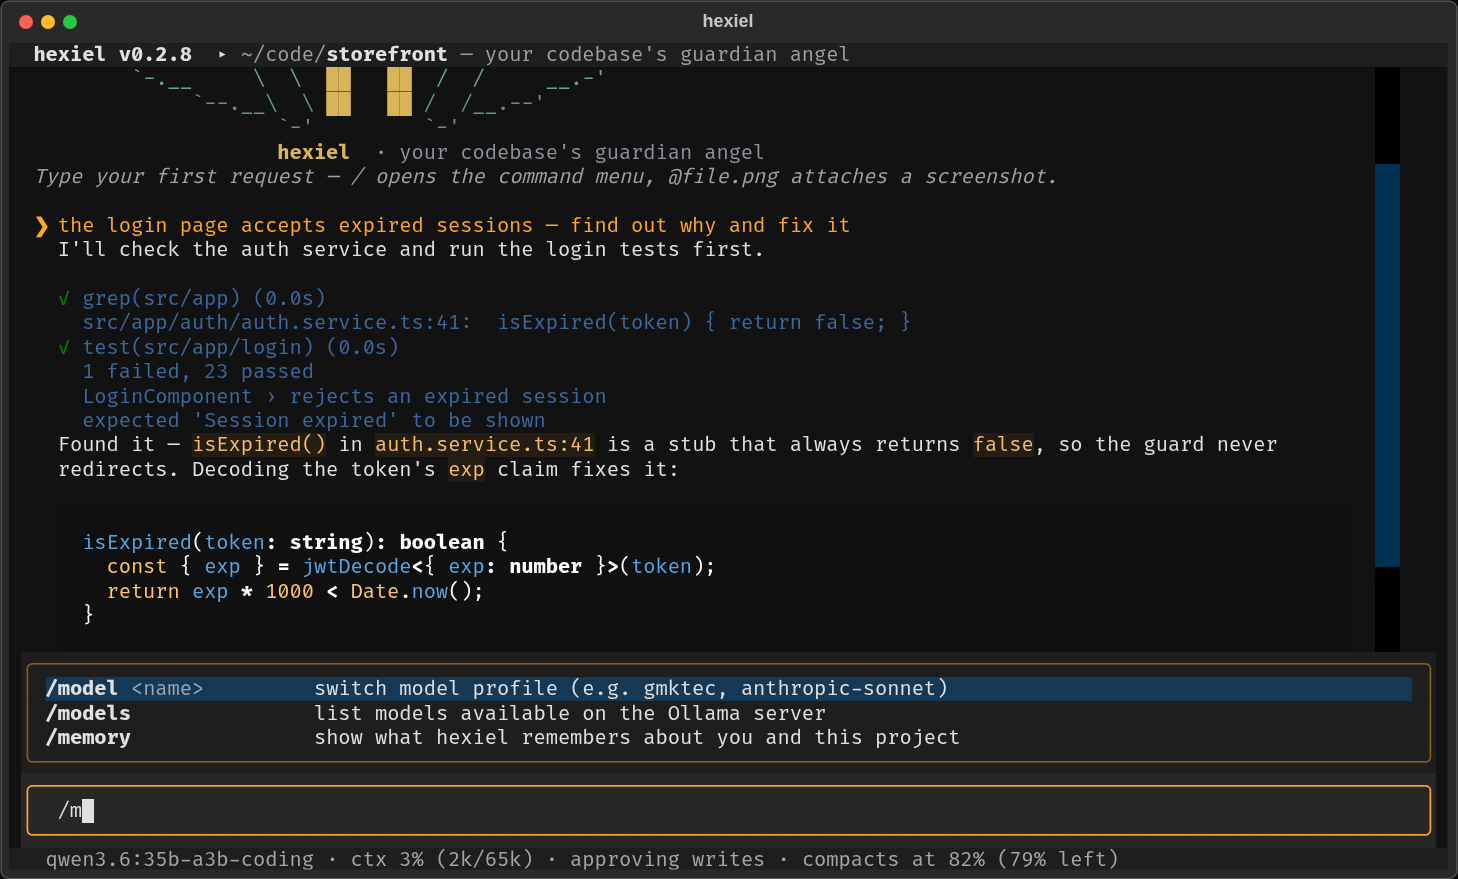
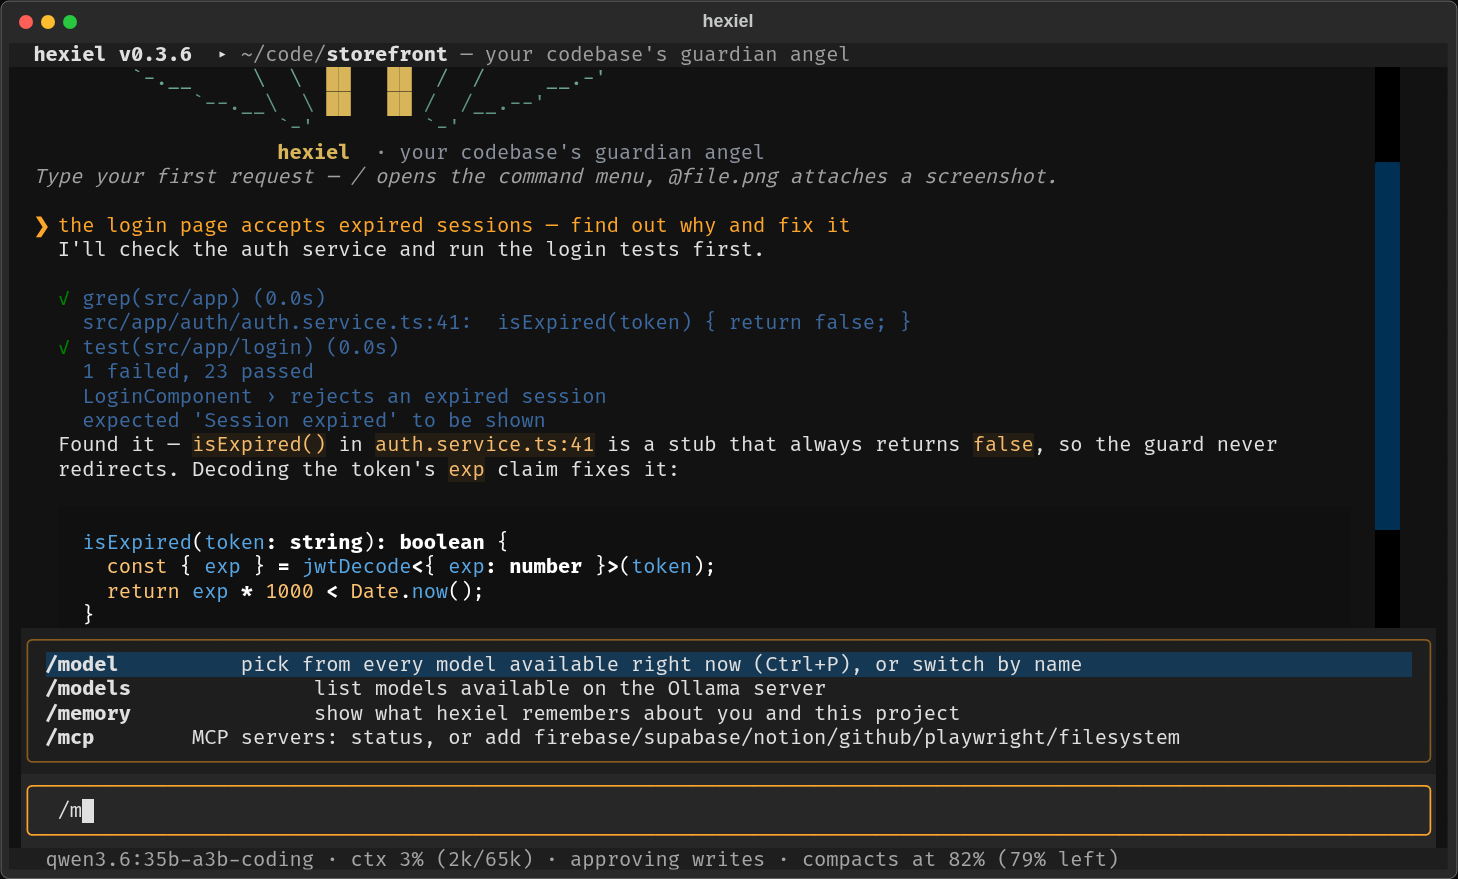
Screenshots: live model picker (TUI + browser); refreshed gallery

Changed region(s): [[0.0309, 0.7065, 0.9877, 0.8601], [0.9259, 0.5836, 0.9877, 0.6451]]

diff --git a/scripts/screenshots.py b/scripts/screenshots.py
@@ -56,6 +56,27 @@ os.chdir(PROJECT)
 sys.path.insert(0, str(REPO))
 
 from hexiel import skills as skills_mod          # noqa: E402
+from hexiel import model_catalog as catalog     # noqa: E402
+
+
+def _demo_discover(cfg, on_result):
+    """A fixed, generic provider list for the picker screenshot (no real accounts)."""
+    E, F = catalog.Endpoint, catalog.Found
+    local = E("Ollama @ homeserver", "openai", "http://homeserver:11434/v1")
+    on_result(local, [F(local, "qwen3.6:35b-a3b-coding", "local", "23 GB local"),
+                      F(local, "gpt-oss:20b", "", "14 GB local")], "")
+    cloud = E("Ollama @ localhost", "openai", "http://localhost:11434/v1")
+    on_result(cloud, [F(cloud, "kimi-k3:cloud", "", "Ollama Cloud"), F(cloud, "glm-5.3:cloud", "", "Ollama Cloud")], "")
+    ant = E("Anthropic", "anthropic", "https://api.anthropic.com")
+    on_result(ant, [F(ant, "claude-opus-5-5", "", "Claude Opus 5.5"), F(ant, "claude-sonnet-5-5", "sonnet", "Claude Sonnet 5.5"),
+                    F(ant, "claude-haiku-4-5", "", "Claude Haiku 4.5")], "")
+    orr = E("OpenRouter", "openai", "https://openrouter.ai/api/v1")
+    on_result(orr, [F(orr, "openai/gpt-6-astra", "", "1050k ctx"), F(orr, "google/gemini-3.8-flash", "", "1048k ctx"),
+                    F(orr, "deepseek/deepseek-v4-pro", "", "1000k ctx")], "")
+
+
+catalog.discover = _demo_discover
+catalog.endpoints = lambda cfg: [1, 2, 3, 4]
 from hexiel.main import build_session            # noqa: E402
 
 CONVERSATION = [
@@ -132,7 +153,12 @@ async def tui_shots(tmp: Path) -> None:
     async def nothing(app, pilot):
         await pilot.pause(0.2)
 
+    async def picker(app, pilot):
+        await pilot.press("ctrl+p")
+        await pilot.pause(0.6)
+
     await capture("tui-welcome", nothing, size=(100, 22), conversation=False)
+    await capture("tui-picker", picker, size=(110, 32), conversation=False)
     await capture("tui", main_view)
     await capture("tui-menu", menu)
     await capture("tui-config", config)
@@ -145,6 +171,7 @@ def web_shots() -> None:
     time.sleep(2)
     chromium(f"http://127.0.0.1:{port}/", OUT / "web.png")
     chromium(f"http://127.0.0.1:{port}/#settings", OUT / "web-settings.png")
+    chromium(f"http://127.0.0.1:{port}/#models", OUT / "web-picker.png")
 
 
 if __name__ == "__main__":

diff --git a/README.md b/README.md
@@ -89,6 +89,8 @@ hexiel -m sonnet          # pick a model profile for this run
 
 | | |
 |---|---|
+| <img src="https://gitlab.com/jkagidesigns1/public/applications/hexiel/-/raw/main/docs/screenshots/tui-picker.png" alt="live model picker"> | <img src="https://gitlab.com/jkagidesigns1/public/applications/hexiel/-/raw/main/docs/screenshots/web-picker.png" alt="live model picker in the browser"> |
+| **`Ctrl+P` / `/model`** lists every model you can use *right now* — local Ollama, Ollama Cloud, Claude, OpenRouter… — queried live each time, never stale. | The same live picker in the browser UI. |
 | <img src="https://gitlab.com/jkagidesigns1/public/applications/hexiel/-/raw/main/docs/screenshots/tui-menu.png" alt="slash command menu"> | <img src="https://gitlab.com/jkagidesigns1/public/applications/hexiel/-/raw/main/docs/screenshots/tui-config.png" alt="settings editor"> |
 | **Type `/`** for the command menu — every command and skill with what it does; ↑/↓, Tab to complete, Enter to run. `/model ` lists your profiles. | **`/config`** shows every setting in a table. Pick a row, pick a value, then choose **this session** or **save permanently** (one line of `config.toml` changes; comments are kept). |
 
